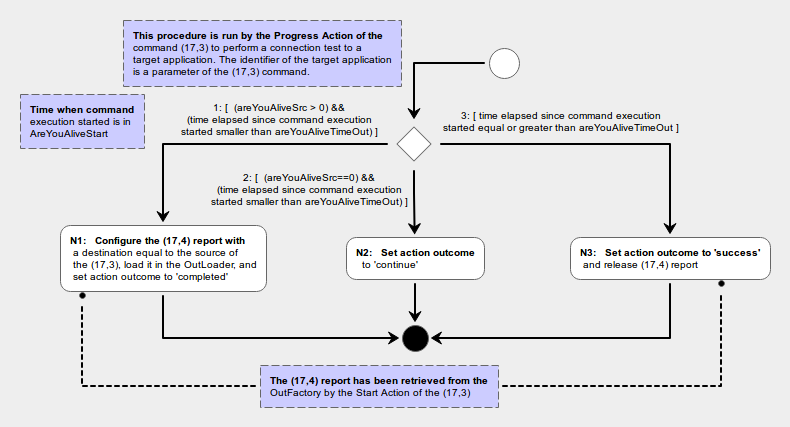
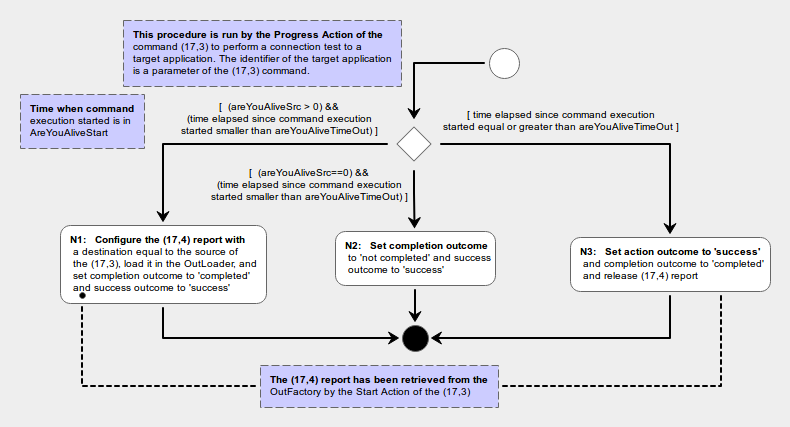
Adapted implementation to new progress action concet
The new progress action concept is the one implemented in the most
recent version of the cordetfw.

diff --git a/tests/CrPsVerTestCases.c b/tests/CrPsVerTestCases.c
@@ -388,7 +388,7 @@ CrFwBool_t CrPsVerTestCase3() {
   CrPsInCmdDumSample1SetReadyFlag(1);
   CrPsInCmdDumSample1SetStartActionOutcome(1);
   CrPsInCmdDumSample1SetProgressStepFlag(0);        /* do not increment progress step */
-  CrPsInCmdDumSample1SetProgressActionOutcome(2);   /* continue execution of progress action */
+  CrPsInCmdDumSample1SetProgressActionOutcome(1);   /* progress action is successful */
   CrPsInCmdDumSample1SetTerminationActionOutcome(1);
 
   /* The InStreamStub now holds a dummy packet with an invalid destination and this is loaded in the InLoader */
@@ -396,6 +396,7 @@ CrFwBool_t CrPsVerTestCase3() {
   CrFwInLoaderSetInStream(inStream);
   CrFwCmpExecute(inLoader);                 /* Dummy packet is collected from InStream and loaded in InManager */
   sample1Cmd = CrPsTestUtilitiesGetItemFromInManager(inManager, 0);
+  CrFwInCmdSetProgressActionCompleted(sample1Cmd, 0);           /* continue execution of progress action */
 
   /* Verify that a (1,1) was generated during the command's loading process */
   if (CrFwOutFactoryGetNOfAllocatedOutCmp() != 1)
@@ -450,7 +451,7 @@ CrFwBool_t CrPsVerTestCase3() {
     return 0;
 
   /* Configure the Sample 1 command to terminate execution and verify that a (1,7) is generated */
-  CrPsInCmdDumSample1SetProgressActionOutcome(1);   /* terminate execution of progress action */
+  CrPsInCmdDumSample1SetProgressActionCompletionOutcome(1);   /* terminate execution of progress action */
   CrPsInCmdDumSample1SetTerminationActionOutcome(1);
   CrFwCmpExecute(inManager);
   if (CrFwOutFactoryGetNOfAllocatedOutCmp() != 5)
@@ -545,6 +546,7 @@ CrFwBool_t CrPsVerTestCase4() {
   /* ---------------------------------- Step 3 ----------------------------------- */
   /* Instantiate and configure the InStreamStub to hold a Sample 1 Command (255,1) */
   CrFwInStreamStubSetPcktCollectionCnt(1);  /* Load one more packet */
+  CrFwInStreamStubSetPcktAckLevel(1,1,0,0); /* Acknowledge acceptance and start success */
 
   /* Configure the Sample 1 Command to fail its progress action */
   CrPsInCmdDumSample1SetValidityFlag(1);
@@ -579,12 +581,13 @@ CrFwBool_t CrPsVerTestCase4() {
   /* ---------------------------------- Step 4 ----------------------------------- */
   /* Instantiate and configure the InStreamStub to hold a Sample 1 Command (255,1) */
   CrFwInStreamStubSetPcktCollectionCnt(1);  /* Load one more packet */
+  CrFwInStreamStubSetPcktAckLevel(1,1,1,0); /* Acknowledge acceptance, start and progress */
 
   /* Configure the Sample 1 Command to fail its termination action */
   CrPsInCmdDumSample1SetValidityFlag(1);
   CrPsInCmdDumSample1SetReadyFlag(1);
   CrPsInCmdDumSample1SetStartActionOutcome(1);
-  CrPsInCmdDumSample1SetProgressActionOutcome(1);   /* termination execution of progress action */
+  CrPsInCmdDumSample1SetProgressActionOutcome(1);   /* progress action is successful */
   CrPsInCmdDumSample1SetProgressStepFlag(1);        /* increment progress step at next command execution */
   CrPsInCmdDumSample1SetTerminationActionOutcome(0);
 
@@ -596,7 +599,7 @@ CrFwBool_t CrPsVerTestCase4() {
   CrFwCmpExecute(inManager);
   prgrStepId = CrFwInCmdGetProgressStepId(sample1Cmd);
 
-  /* Verify that a (1,1), (1,3) and (1,6) were generated during the command's loading process and then reset OutManager */
+  /* Verify that a (1,1), (1,3) and (1,8) were generated during the command's loading process and then reset OutManager */
   if (CrFwOutFactoryGetNOfAllocatedOutCmp() != 4)
     return 0;
   if (CrPsTestUtilitiesCheckOutManagerCmd(outManager,0,1,1) != 1)
@@ -656,11 +659,12 @@ CrFwBool_t CrPsVerTestCase5() {
   CrFwInStreamStubSetPcktCmdRepId(1);
   CrFwInStreamStubSetPcktAckLevel(1,1,1,1);
 
-  /* Configure the Sample 1 Command to pass its progress action but remaing pending */
+  /* Configure the Sample 1 Command to pass its progress action but remain pending */
   CrPsInCmdDumSample1SetValidityFlag(1);
   CrPsInCmdDumSample1SetReadyFlag(1);
   CrPsInCmdDumSample1SetStartActionOutcome(1);
-  CrPsInCmdDumSample1SetProgressActionOutcome(2);   /* continue execution */
+  CrPsInCmdDumSample1SetProgressActionCompletionOutcome(0);   /* continue execution of progress action */
+  CrPsInCmdDumSample1SetProgressActionOutcome(1);   /* progress action is successful */
   CrPsInCmdDumSample1SetProgressStepFlag(1);        /* increment progress step at next command execution */
 
   /* The InStreamStub now holds a Sample 1 Command which passes its progress action and then remains pending */
@@ -689,7 +693,7 @@ CrFwBool_t CrPsVerTestCase5() {
   CrPsInCmdDumSample1SetValidityFlag(1);
   CrPsInCmdDumSample1SetReadyFlag(1);
   CrPsInCmdDumSample1SetStartActionOutcome(1);
-  CrPsInCmdDumSample1SetProgressActionOutcome(1);   /* termination execution of progress action */
+  CrPsInCmdDumSample1SetProgressActionOutcome(1);   /* progress action is successful */
   CrPsInCmdDumSample1SetProgressStepFlag(1);        /* increment progress step at next command execution */
   CrPsInCmdDumSample1SetTerminationActionOutcome(0);
 
@@ -716,7 +720,6 @@ CrFwBool_t CrPsVerTestCase5() {
   if (CrFwOutManagerGetNOfPendingOutCmp(outManager) != 0)
      return 0;
 
-  /* Check and then reset application errors */
   /* Check and then reset application errors */
   if (CrFwGetAppErrCode() != crOutCmpAllocationFail)
     return 0;

diff --git a/src/Tst/CrPsCmd17s3PrgrFunc.c b/src/Tst/CrPsCmd17s3PrgrFunc.c
@@ -69,9 +69,9 @@ void CrPsTestOnBoardConnectionPrgrN1(FwPrDesc_t prDesc) {
   CrFwOutCmpSetDest(rep17s4, srcId);
   CrFwOutLoaderLoad(rep17s4);
 
-  /* Set outcome to 'success' */
-  cmpData = (CrFwCmpData_t*) FwSmGetData(cmd17s3);
-  cmpData->outcome = 1;
+  /* Set outcome to 'success' and completion outcome to 'not completed' */
+  CrFwSetSmOutcome(cmd17s3, 1);
+  CrFwInCmdSetProgressActionCompleted(cmd17s3, 0);
 
   return;
 }
@@ -90,9 +90,9 @@ void CrPsTestOnBoardConnectionPrgrN2(FwPrDesc_t prDesc) {
    * (this is part of the data structure attached to the Progress Action Procedure) */
   cmd17s3 = prTstData->cmd17s3;
 
-  /* Set action outcome in the (17,3) command to 'continue' */
-  cmpData = (CrFwCmpData_t*) FwSmGetData(cmd17s3);
-  cmpData->outcome = 2;
+  /* Set outcome to 'success' and completion outcome to 'completed' */
+  CrFwSetSmOutcome(cmd17s3, 1);
+  CrFwInCmdSetProgressActionCompleted(cmd17s3, 0);
 
   return;
 }
@@ -112,9 +112,9 @@ void CrPsTestOnBoardConnectionPrgrN3(FwPrDesc_t prDesc) {
    * (this is part of the data structure attached to the Progress Action Procedure) */
   cmd17s3 = prTstData->cmd17s3;
 
-  /* Set action outcome in the (17,3) command to 'success' */
-  cmpData = (CrFwCmpData_t*) FwSmGetData(cmd17s3);
-  cmpData->outcome = 1;
+  /* Set outcome to 'success' and completion outcome to 'completed' */
+  CrFwSetSmOutcome(cmd17s3, 1);
+  CrFwInCmdSetProgressActionCompleted(cmd17s3, 1);
 
   /* Retrieve the (17,4) report which was created by the Start Action of the (17,3) and
    * which is available in the data structure attached to the Progress Action Procedure */

diff --git a/src/Dum/CrPsInCmdDumSample1.c b/src/Dum/CrPsInCmdDumSample1.c
@@ -58,6 +58,9 @@ static CrFwOutcome_t startOutcome;
 /** The Progress Action Outcome. */
 static CrFwOutcome_t progressOutcome;
 
+/** The Progress Action Completion Outcome */
+static CrFwBool_t progressCompletiongOutcome;
+
 /** The Progress Step Flag. */
 static CrFwBool_t progressStepFlag ;
 
@@ -133,6 +136,7 @@ CrFwCounterU1_t CrPsInCmdDumSample1GetStartActionCounter() {
 void CrPsInCmdDumSample1ProgressAction(FwSmDesc_t smDesc) {
     CrFwProgressStepId_t progressStepId;
     CrFwSetSmOutcome(smDesc, progressOutcome);
+    CrFwInCmdSetProgressActionCompleted(smDesc, progressCompletiongOutcome);
     progressStepId = CrFwInCmdGetProgressStepId(smDesc);
     if (progressStepFlag)
         CrFwInCmdSetProgressStepId(smDesc,progressStepId+1);
@@ -143,6 +147,10 @@ void CrPsInCmdDumSample1ProgressAction(FwSmDesc_t smDesc) {
 /*-----------------------------------------------------------------------------------------*/
 void CrPsInCmdDumSample1SetProgressActionOutcome(CrFwOutcome_t outcome) {
     progressOutcome = outcome;
+}
+
+void CrPsInCmdDumSample1SetProgressActionCompletionOutcome(CrFwBool_t outcome) {
+    progressCompletiongOutcome = outcome;
 }
 
 /*-----------------------------------------------------------------------------------------*/

diff --git a/src/Tst/CrPsCmd17s3Prgr.h b/src/Tst/CrPsCmd17s3Prgr.h
@@ -12,7 +12,7 @@
  * @image html CrPsCmd17s3Prgr.png
  *
  * @author FW Profile code generator version 5.01
- * @date Created on: Jun 7 2018 18:44:45
+ * @date Created on: Oct 7 2018 19:16:3
  */
 
 /** Make sure to include this header file only once */
@@ -43,7 +43,8 @@ FwPrDesc_t CrPsCmd17s3PrgrCreate(void* prData);
  * Configure the (17,4) report with
  * a destination equal to the source of 
  * the (17,3), load it in the OutLoader, and
- * set action outcome to 'completed'
+ * set completion outcome to 'completed'
+ * and success outcome to 'success'
  * </pre>
  * @param smDesc the procedure descriptor
  */
@@ -52,8 +53,9 @@ void CrPsTestOnBoardConnectionPrgrN1(FwPrDesc_t prDesc);
 /**
  * Action for node N2.
  * <pre>
- * Set action outcome
- *  to 'continue'
+ * Set completion outcome
+ * to 'not completed' and success
+ * outcome to 'success'
  * </pre>
  * @param smDesc the procedure descriptor
  */
@@ -62,7 +64,8 @@ void CrPsTestOnBoardConnectionPrgrN2(FwPrDesc_t prDesc);
 /**
  * Action for node N3.
  * <pre>
- * Set action outcome to 'failed'
+ * Set action outcome to 'success'
+ * and completion outcome to 'completed'
  * and release (17,4) report
  * </pre>
  * @param smDesc the procedure descriptor

diff --git a/src/Dum/CrPsInCmdDumSample1.h b/src/Dum/CrPsInCmdDumSample1.h
@@ -54,10 +54,13 @@ void CrPsInCmdDumSample1StartAction(FwSmDesc_t smDesc);
 /**
  * Progress action of TC(255,1) DumSample1.
  * This action:
- * (a) Sets the outcome to the value of an internal counter (the Progress
+ * (a) Sets the success outcome to the value of an internal counter (the Progress
  * Action Outcome Counter) whose value is set through function
- * <code>::CrFwInCmdSample1SetProgressActionOutcome</code>, and
- * (b) It increments the progress step identifier if the progress step flag is
+ * <code>::CrFwInCmdSample1SetProgressActionOutcome</code>;
+ * (b) Sets the completion outcome to the value of an internal flag (the Progress
+ * Completion Outcome) whose value is set through function
+ * <code>::
+ * (c) It increments the progress step identifier if the progress step flag is
  * set (its value is controlled through function
  * <code>::CrFwInCmdSample1SetProgressActionFlag</code>.
  * @param smDesc The state machine descriptor.

diff --git a/src/Dum/CrPsInCmdDumSample1Ctrl.h b/src/Dum/CrPsInCmdDumSample1Ctrl.h
@@ -89,6 +89,13 @@ void CrPsInCmdDumSample1SetProgressStepFlag(CrFwBool_t flag);
 void CrPsInCmdDumSample1SetProgressActionOutcome(CrFwOutcome_t outcome);
 
 /**
+ * Set the value of the Progress Action Completion Outcome
+ * (see <code>::CrPsInCmdDumSample1ProgressAction</code>).
+ * @param outcome the value of the Progress Action Completiong Outcome
+ */
+void CrPsInCmdDumSample1SetProgressActionCompletionOutcome(CrFwBool_t outcome);
+
+/**
  * Get the value of the Progress Action Counter (see <code>::CrPsInCmdDumSample1ProgressAction</code>).
  * @return the value of the Progress Action Counter
  */

diff --git a/src/Tst/CrPsCmd17s3Prgr.c b/src/Tst/CrPsCmd17s3Prgr.c
@@ -2,7 +2,7 @@
  * @file CrPsCmd17s3Prgr.c
  *
  * @author FW Profile code generator version 5.01
- * @date Created on: Jun 7 2018 18:44:45
+ * @date Created on: Oct 7 2018 19:16:3
  */
 
 #include "CrPsCmd17s3Prgr.h"
